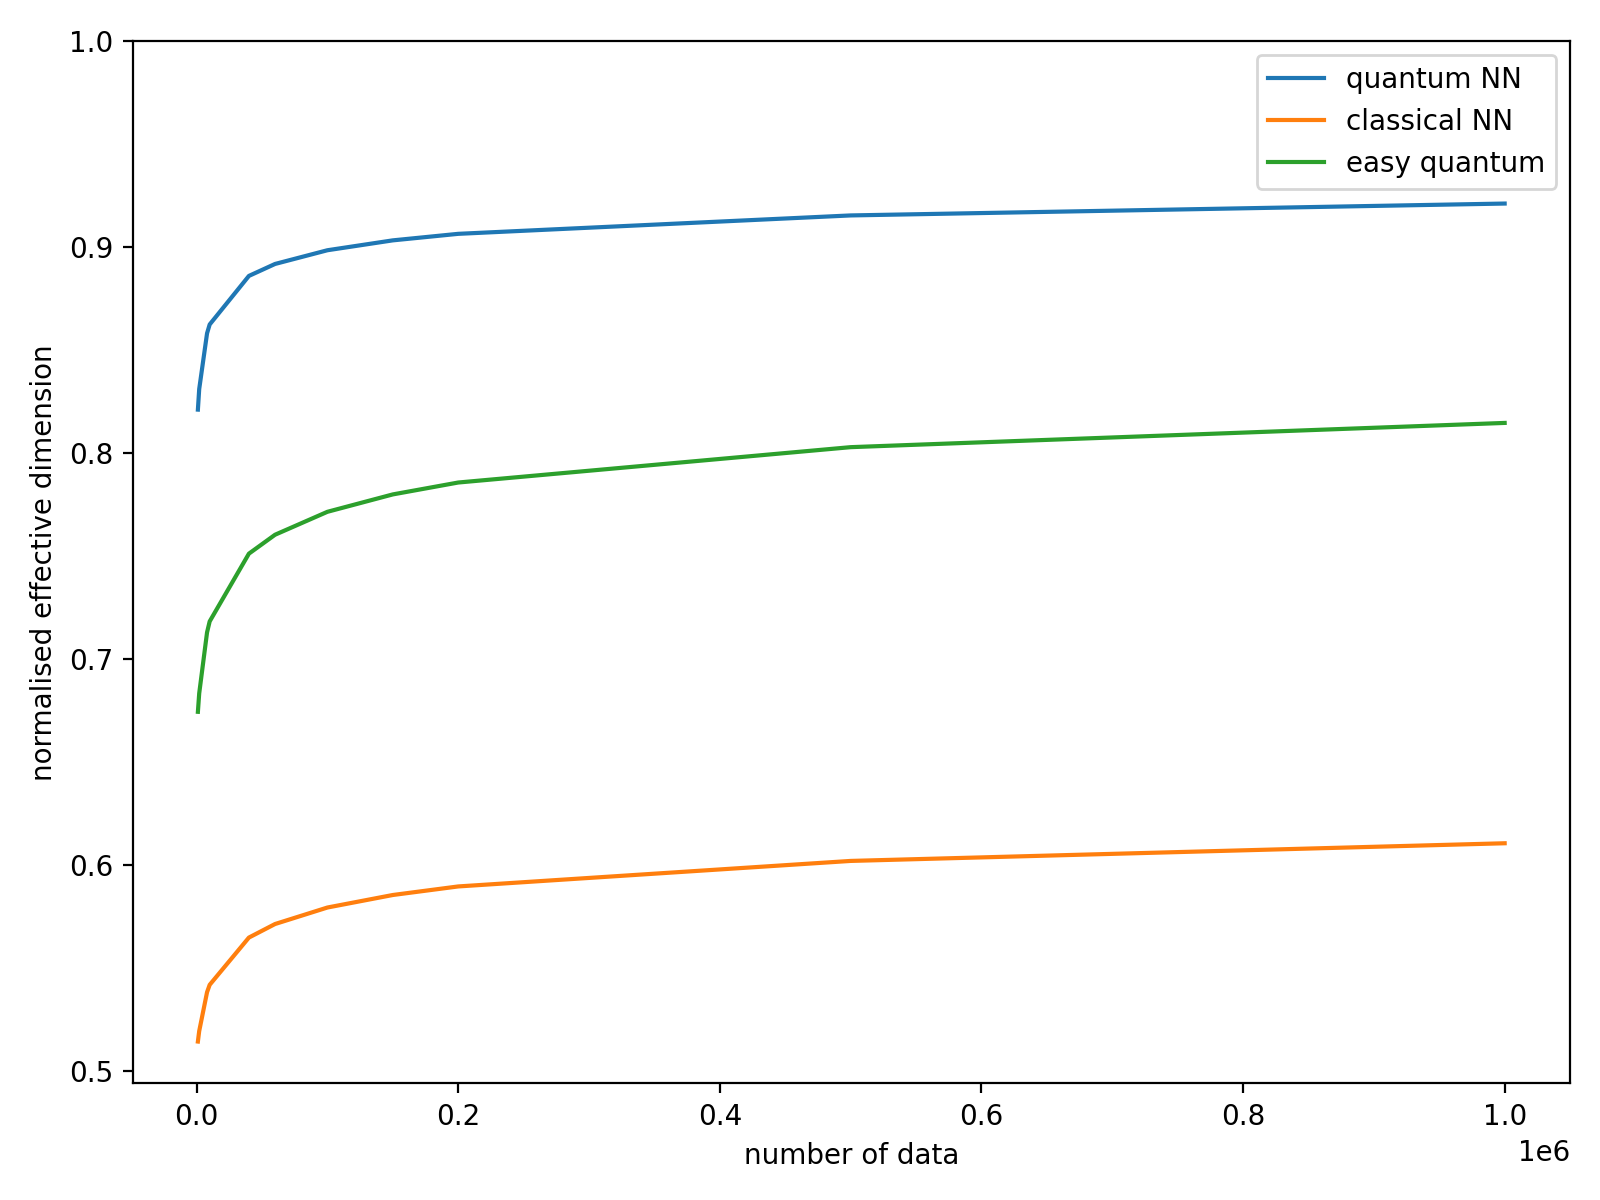
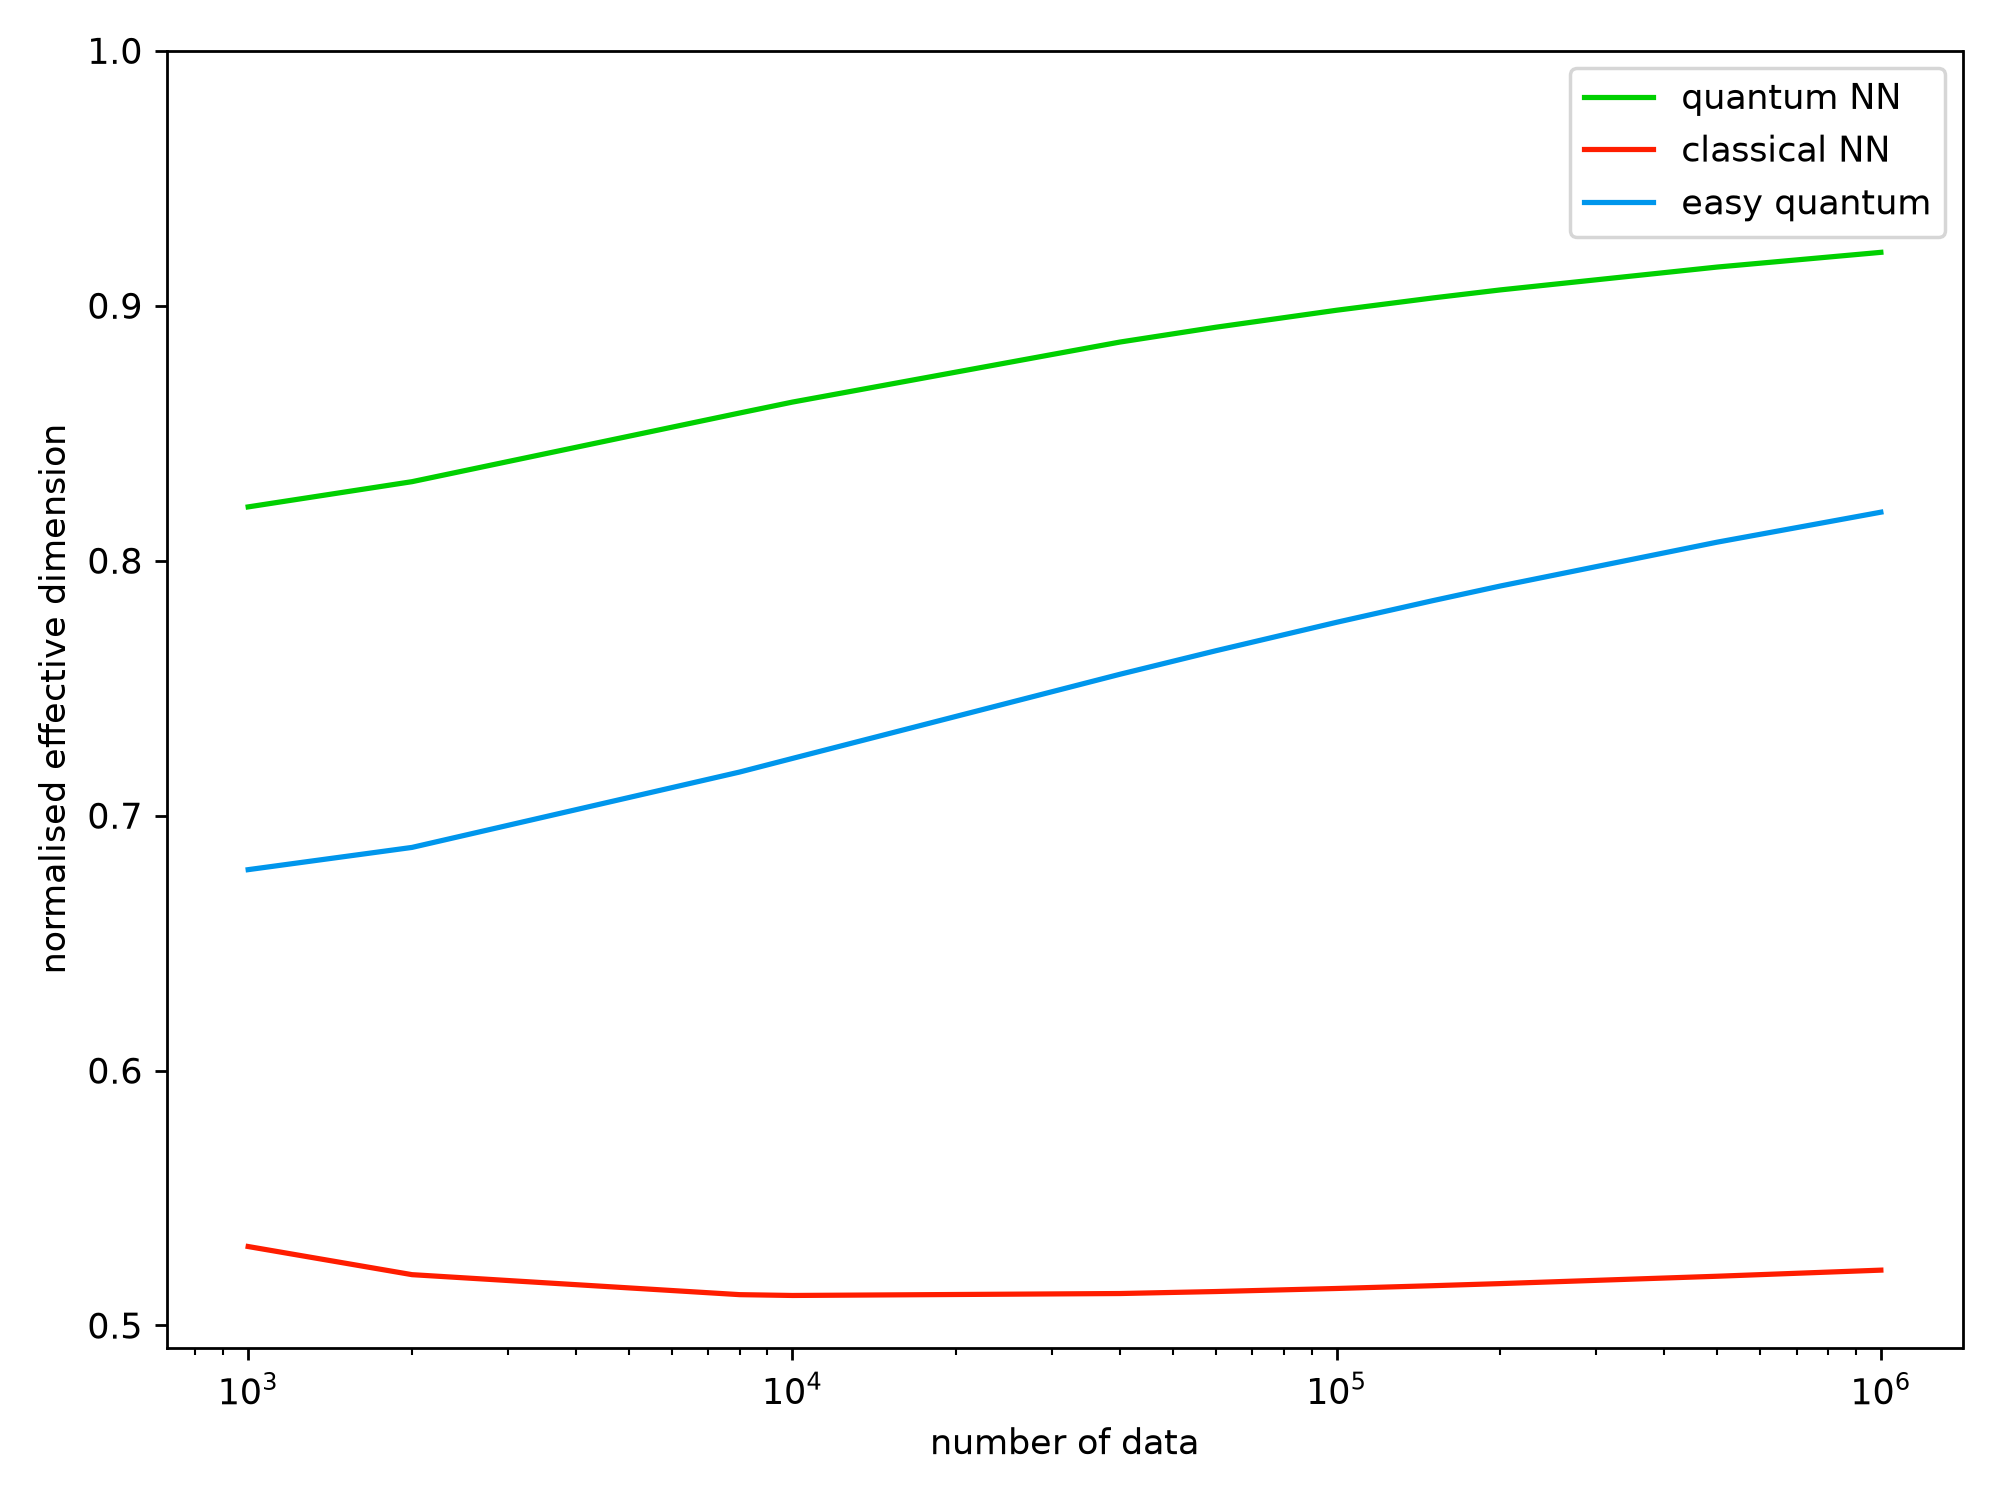
Add validated Fisher and effective-dimension results

diff --git a/README.md b/README.md
@@ -95,6 +95,12 @@ The Fisher-information eigenvalue distributions compare the local geometry of th
 
 A strong concentration of eigenvalues close to zero corresponds to many insensitive or locally flat parameter directions. Large isolated eigenvalues indicate strong anisotropy in the parameter space. The comparison therefore provides a geometric way of studying optimization behaviour beyond simply comparing training loss.
 
+### Fisher-information boxplots
+
+![Fisher-information boxplots](figures/fisher_boxplots.png)
+
+The boxplots show the distribution of sorted Fisher eigenvalue ranks across the sampled parameterizations, making differences in near-zero directions and spectral spread easier to compare.
+
 ### Cumulative Fisher spectrum
 
 ![Cumulative Fisher spectrum](figures/fisher_cumulative.png)
